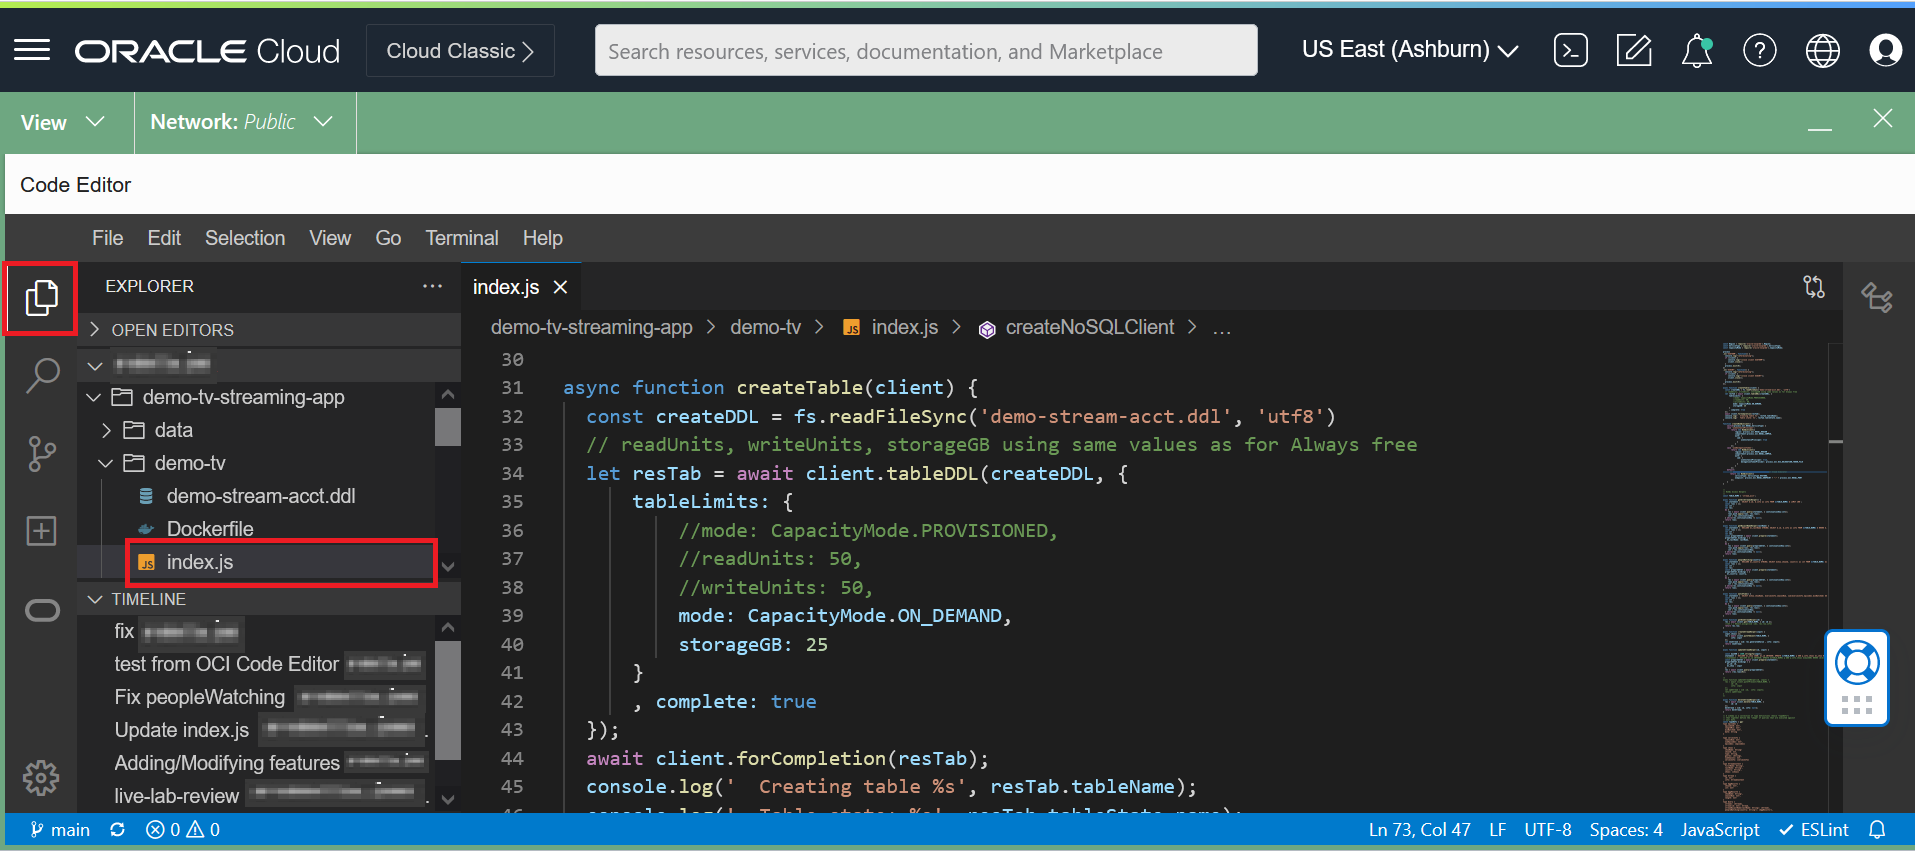
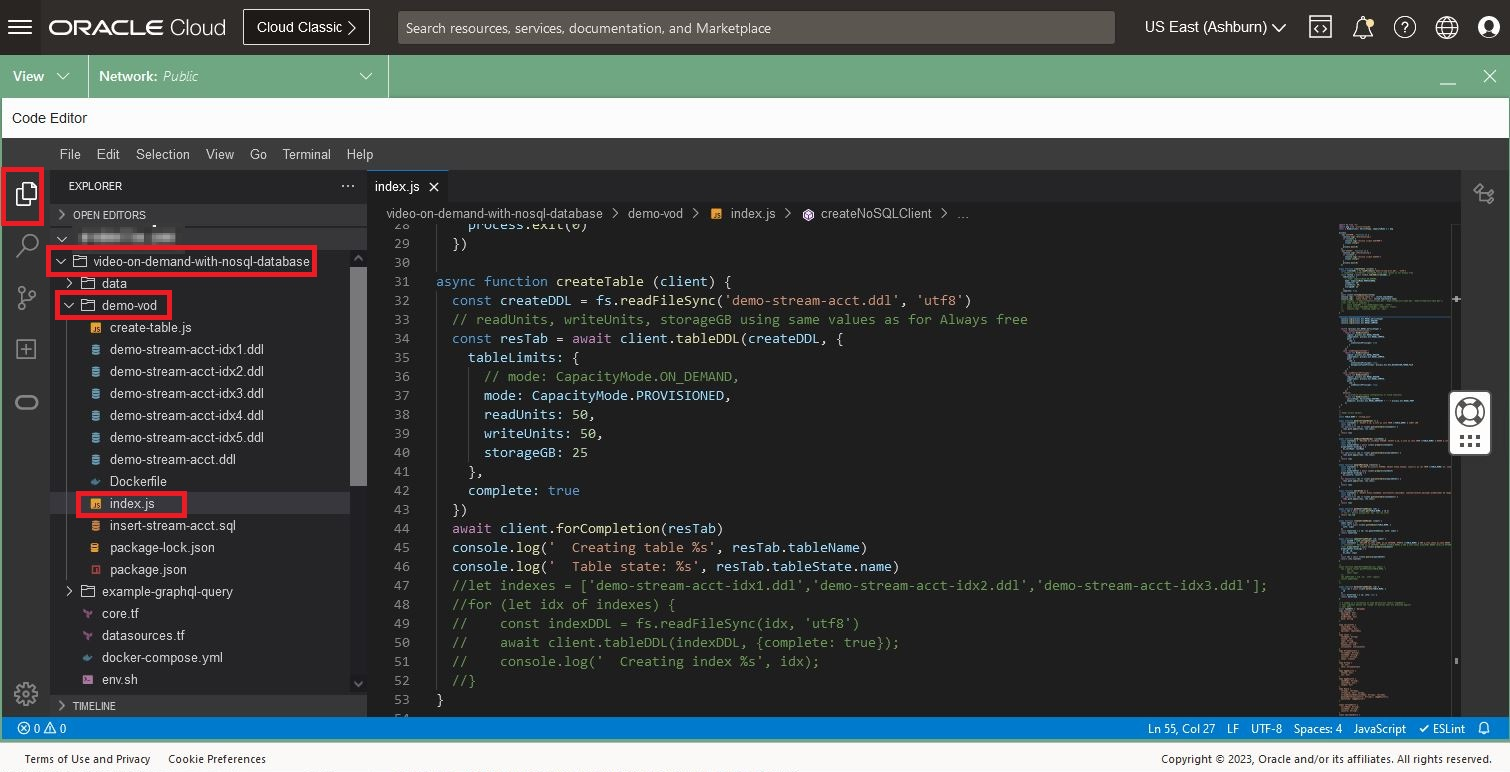
Before submitting QA

diff --git a/video-on-demand-with-nosql-database/run-nosql-app-container/run-nosql-app-container.md b/video-on-demand-with-nosql-database/run-nosql-app-container/run-nosql-app-container.md
@@ -49,9 +49,16 @@ In this task we will review the code using OCI Code Editor.
    **delegation tokens**.  In this lab, we are going to be running
    application using **Resource Principals**.
 
-   Note: When deploying using OKE, you will do the connection using **Instance Principals**. It is not the topic of this workshop but if you
-want to learn more [check here](https://github.com/oracle/nosql-examples/blob/master/.github/workflows/deploy-oke-oci-cli-demo-vod.yml)
-and [here.](https://github.com/oracle/nosql-examples/blob/master/demo-livelab/video-on-demand-with-nosql-database/oracle-app-ndcs-deployment.yaml)
+    * As discussed in the Lab 2 - Task 4: Understand Credentials, and Policies.
+To use them you have to set up a dynamic group and create a policy that grants
+the dynamic group access to a resource.
+We did it for you in **Lab 2 - Task 3: Deploy Infrastructure using Terraform**.
+Take a look at the `policy.tf` file in the following directory `video-on-demand-with-nosql-database`.
+    * In this Lab, We will use a container image that we deployed in GitHub Container Registry.
+Take a look to the `Dockerfile` in the following directory `video-on-demand-with-nosql-database/demo-vod`, and [check here](https://github.com/oracle/nosql-examples/blob/master/.github/workflows/build-and-push-demo-vod-image.yml)
+
+    * Note: When deploying using OKE - see Lab 1, you will do the connection using **Instance Principals**. It is not the topic of this workshop but if you
+want to learn more read the `oracle-app-ndcs-deployment.yaml` file in the following directory `video-on-demand-with-nosql-database`. [Check here](https://github.com/oracle/nosql-examples/blob/master/.github/workflows/deploy-oke-oci-cli-demo-vod.yml) to learn how to deploy using GitHub Actions.
 
 ## Task 2: Restart the Cloud Shell
 

diff --git a/video-on-demand-with-nosql-database/run-nosql-app/run-nosql-app.md b/video-on-demand-with-nosql-database/run-nosql-app/run-nosql-app.md
@@ -32,7 +32,7 @@ In this task we will review the code using OCI Code Editor.
 2. Go to the Code Editor, and open the file `index.js` in the following directory
 `video-on-demand-with-nosql-database/demo-vod` as shown in the screen-shot:
 
-    ![Code](./images/appl-code.png)
+    ![Code createNoSQLClient](./images/appl-code-connection.png)
 
     Oracle NoSQL Database offers **flexible deployment** options to suit the needs of
 its customers. Whether deploying on an "On-Premises" cluster or utilizing the
@@ -65,6 +65,8 @@ want to learn more [check here.](https://github.com/oracle/nosql-examples/blob/m
 choosing the most cost-effective deployment to meet their business and application
 workload requirements. Such flexibility empowers businesses to solely focus on application
 innovations to delight their customers, making operational costs "worry-free" in their decision-making process.
+
+   ![Code createTable](./images/appl-code.png)
 
   You can also modify the **Capacity mode** from Provisioned Capacity to On Demand Capacity and vice-versa.
 The function `createTable` illustrates this.
